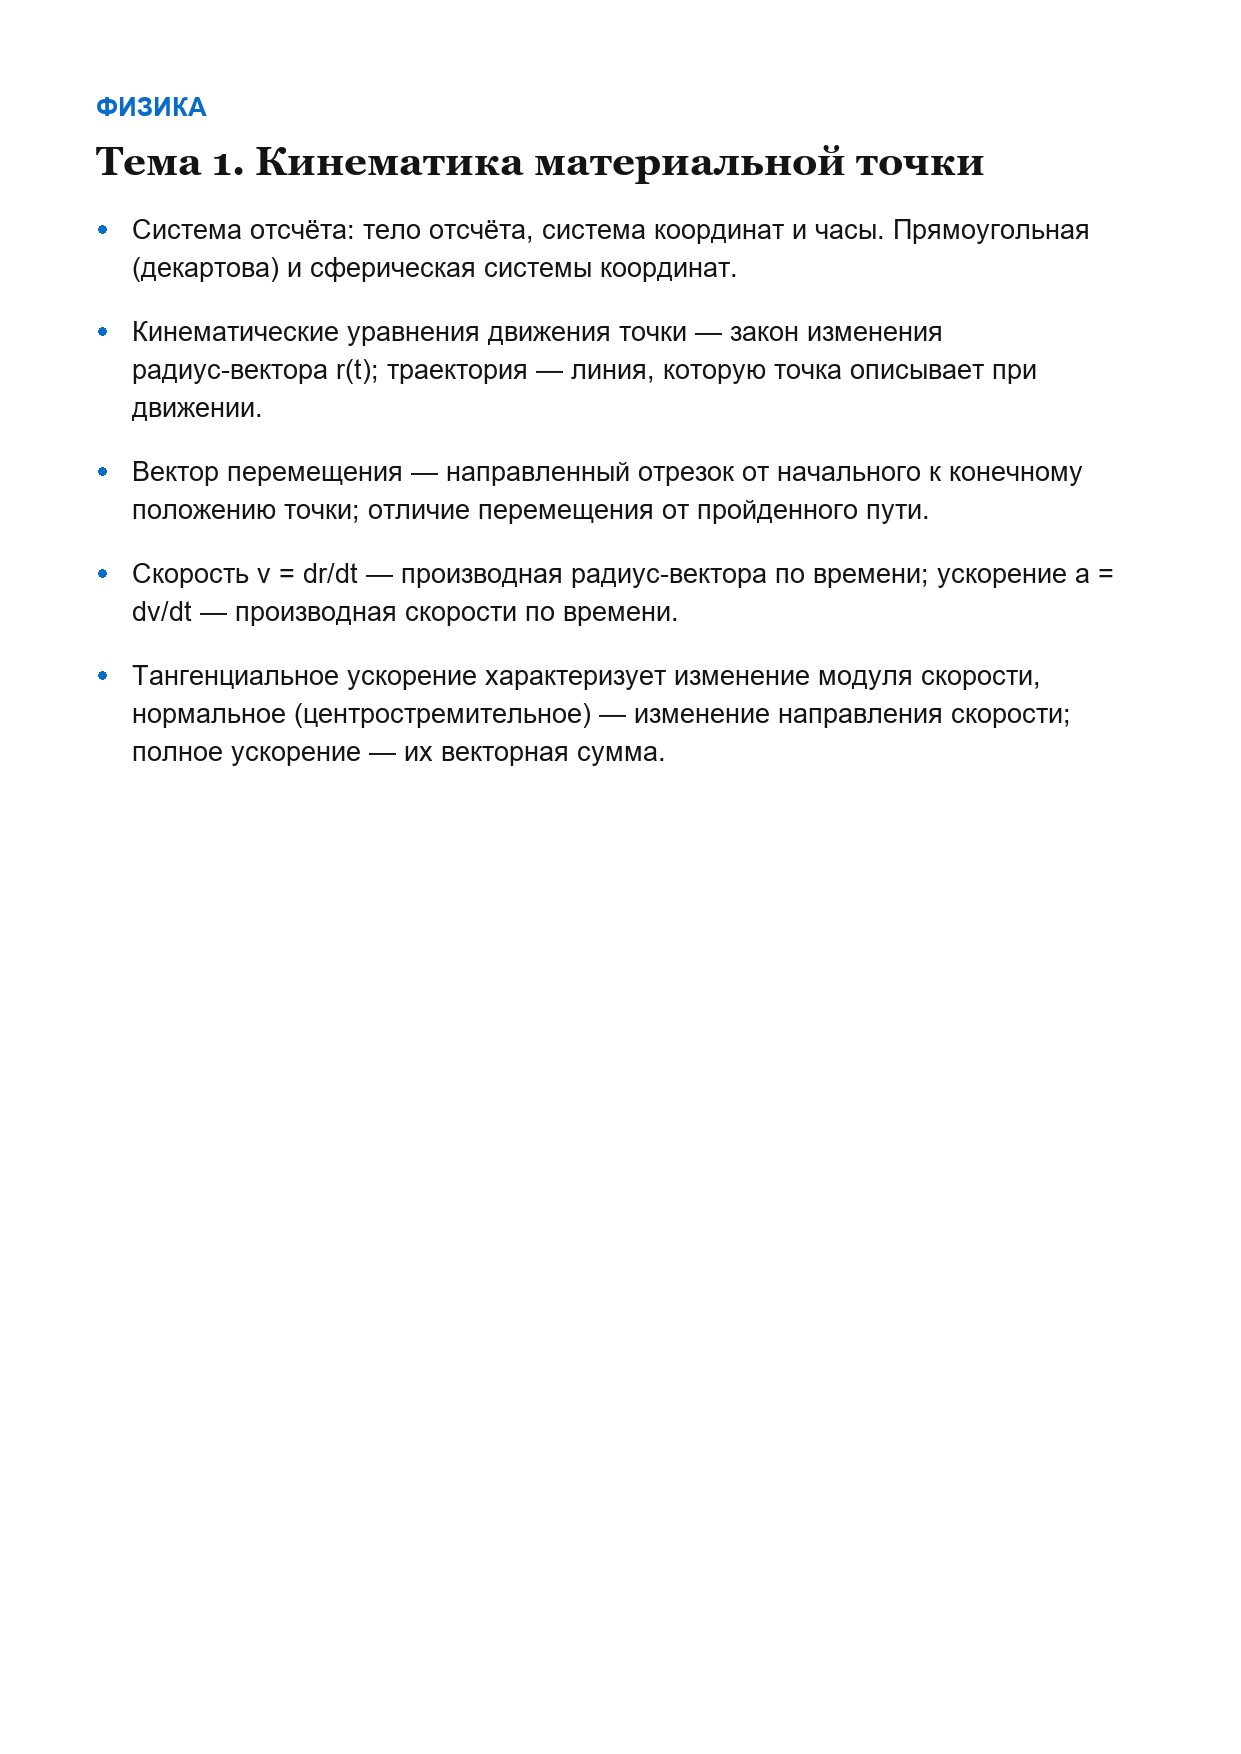
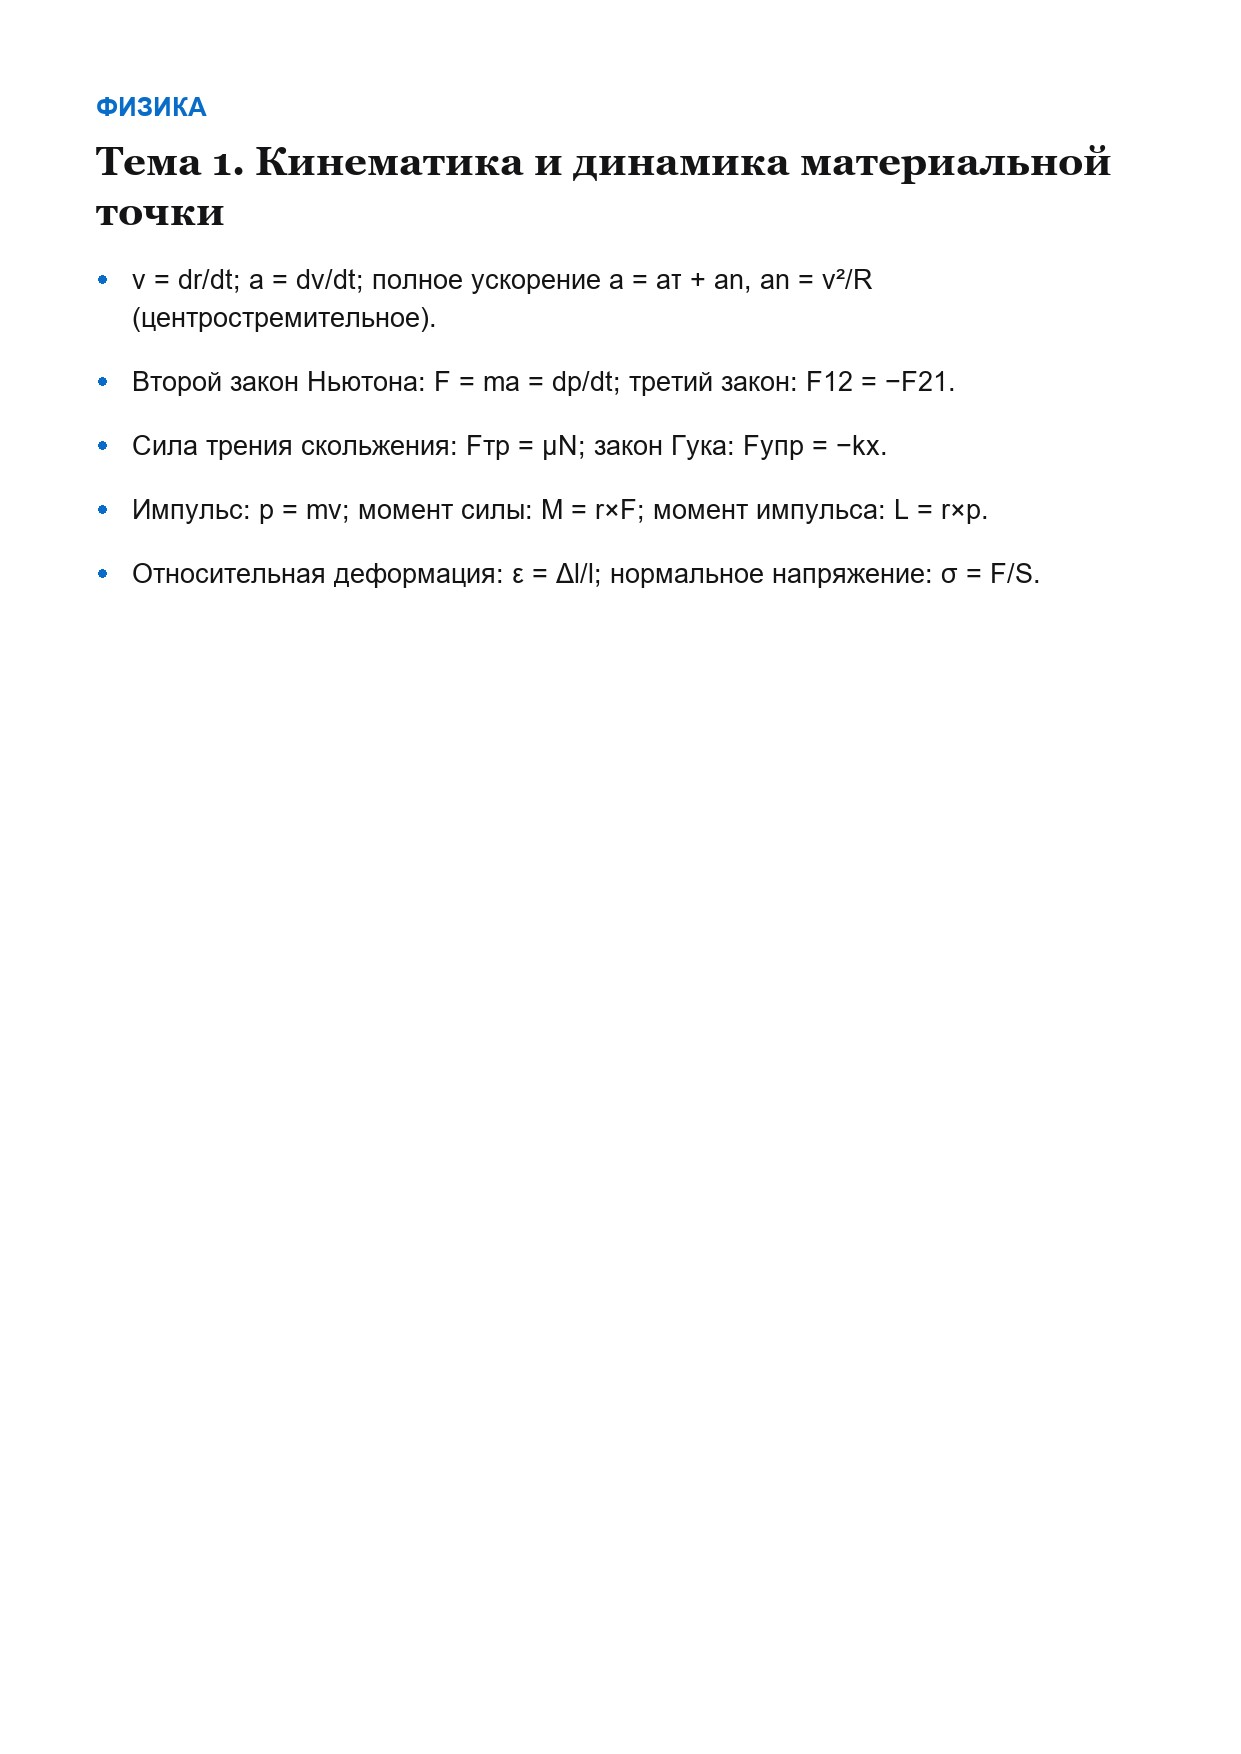
Rewrite M107 конспекты as a dense formula sheet (10+10 pages)
Replaces the earlier 12 Математика / 18 Физика pages (prose-style
study notes) with a tighter 10+10 set, grounded in what the 4 real
exam variants actually test — first-order ODE solving methods
dominate Математика (67/80 questions), orbital/Kepler mechanics
dominates Физика (46/120 questions, notably specific to the
"Космическая инженерия" specialization: eccentric/mean anomaly,
Kepler's equation, Laplace/energy/areal integrals).

Content is now name+formula pairs with no connecting prose ("без воды
— теория формулы" per request), e.g. "Линейное уравнение первого
порядка: y'+p(x)y=q(x) → y=e^(-∫p dx)[∫q(x)e^(∫p dx)dx+C]" instead of
explanatory sentences. Same PIL render pipeline/template as before.

Changed region(s): [[0.0919, 0.0924, 0.888, 0.431]]

diff --git a/script.js b/script.js
@@ -372,46 +372,36 @@ const LIBRARY_CONSPECTS = {
         key: 'matematika',
         title: 'Математика',
         file: 'm107-matematika-course',
-        pages: 12,
+        pages: 10,
         topics: [
           { title: 'Тема 1. Матрицы и определители', page: 1 },
-          { title: 'Тема 2. Системы линейных алгебраических уравнений', page: 2 },
-          { title: 'Тема 3. Векторная алгебра', page: 3 },
-          { title: 'Тема 4. Аналитическая геометрия на плоскости и в пространстве', page: 4 },
-          { title: 'Тема 5. Предел и непрерывность функции', page: 5 },
-          { title: 'Тема 6. Производная функции и её приложения', page: 6 },
-          { title: 'Тема 7. Исследование функции и построение графика', page: 7 },
-          { title: 'Тема 8. Неопределённый интеграл', page: 8 },
-          { title: 'Тема 9. Определённый интеграл и его приложения', page: 9 },
-          { title: 'Тема 10. Частные производные и дифференциал функции многих переменных', page: 10 },
-          { title: 'Тема 11. Экстремум функции нескольких переменных', page: 11 },
-          { title: 'Тема 12. Двойные и тройные интегралы', page: 12 },
+          { title: 'Тема 2. Векторная алгебра и аналитическая геометрия', page: 2 },
+          { title: 'Тема 3. Пределы и эквивалентности', page: 3 },
+          { title: 'Тема 4. Производные', page: 4 },
+          { title: 'Тема 5. Неопределённый и определённый интеграл', page: 5 },
+          { title: 'Тема 6. ДУ с разделяющимися переменными и однородные', page: 6 },
+          { title: 'Тема 7. Линейные ДУ первого порядка и уравнение Бернулли', page: 7 },
+          { title: 'Тема 8. ДУ в полных дифференциалах и второго порядка', page: 8 },
+          { title: 'Тема 9. Частные производные и дифференциал функции многих переменных', page: 9 },
+          { title: 'Тема 10. Экстремум функции многих переменных; кратные интегралы', page: 10 },
         ],
       },
       {
         key: 'fizika',
         title: 'Физика',
         file: 'm107-fizika-course',
-        pages: 18,
+        pages: 10,
         topics: [
-          { title: 'Тема 1. Кинематика материальной точки', page: 1 },
-          { title: 'Тема 2. Кинематика твёрдого тела', page: 2 },
-          { title: 'Тема 3. Динамика материальной точки. Законы Ньютона', page: 3 },
-          { title: 'Тема 4. Неинерциальные системы отсчёта. Силы инерции', page: 4 },
-          { title: 'Тема 5. Динамика системы материальных точек. Моменты силы и импульса', page: 5 },
-          { title: 'Тема 6. Вращение твёрдого тела вокруг неподвижной оси', page: 6 },
-          { title: 'Тема 7. Работа, мощность и энергия', page: 7 },
-          { title: 'Тема 8. Законы сохранения в механике', page: 8 },
-          { title: 'Тема 9. Закон всемирного тяготения. Космические скорости', page: 9 },
-          { title: 'Тема 10. Электростатическое поле. Теорема Гаусса', page: 10 },
-          { title: 'Тема 11. Проводники и диэлектрики в электростатическом поле', page: 11 },
-          { title: 'Тема 12. Постоянный электрический ток', page: 12 },
-          { title: 'Тема 13. Магнитное поле. Закон Био — Савара — Лапласа', page: 13 },
-          { title: 'Тема 14. Электромагнитная индукция. Уравнения Максвелла', page: 14 },
-          { title: 'Тема 15. Механические и электромагнитные колебания', page: 15 },
-          { title: 'Тема 16. Волны. Интерференция и дифракция света', page: 16 },
-          { title: 'Тема 17. Поляризация света', page: 17 },
-          { title: 'Тема 18. Тепловое излучение и фотоэффект', page: 18 },
+          { title: 'Тема 1. Кинематика и динамика материальной точки', page: 1 },
+          { title: 'Тема 2. Работа, энергия, вращение твёрдого тела', page: 2 },
+          { title: 'Тема 3. Закон всемирного тяготения; космические скорости', page: 3 },
+          { title: 'Тема 4. Элементы кеплеровых орбит', page: 4 },
+          { title: 'Тема 5. Законы Кеплера; орбитальные интегралы', page: 5 },
+          { title: 'Тема 6. Электростатика', page: 6 },
+          { title: 'Тема 7. Проводники, диэлектрики, конденсаторы', page: 7 },
+          { title: 'Тема 8. Постоянный электрический ток', page: 8 },
+          { title: 'Тема 9. Магнитное поле; электромагнитная индукция', page: 9 },
+          { title: 'Тема 10. Колебания, волны, квантовая физика', page: 10 },
         ],
       },
     ],
